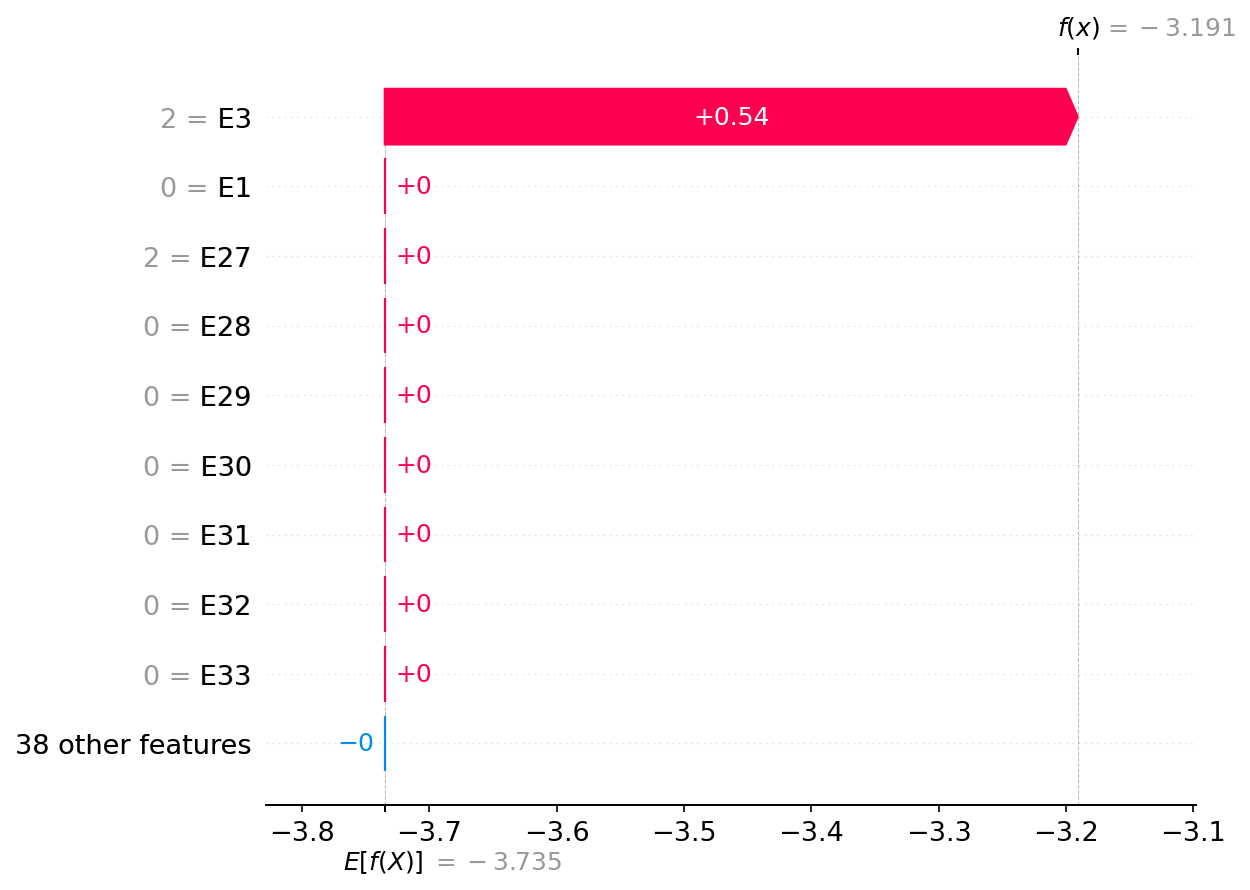
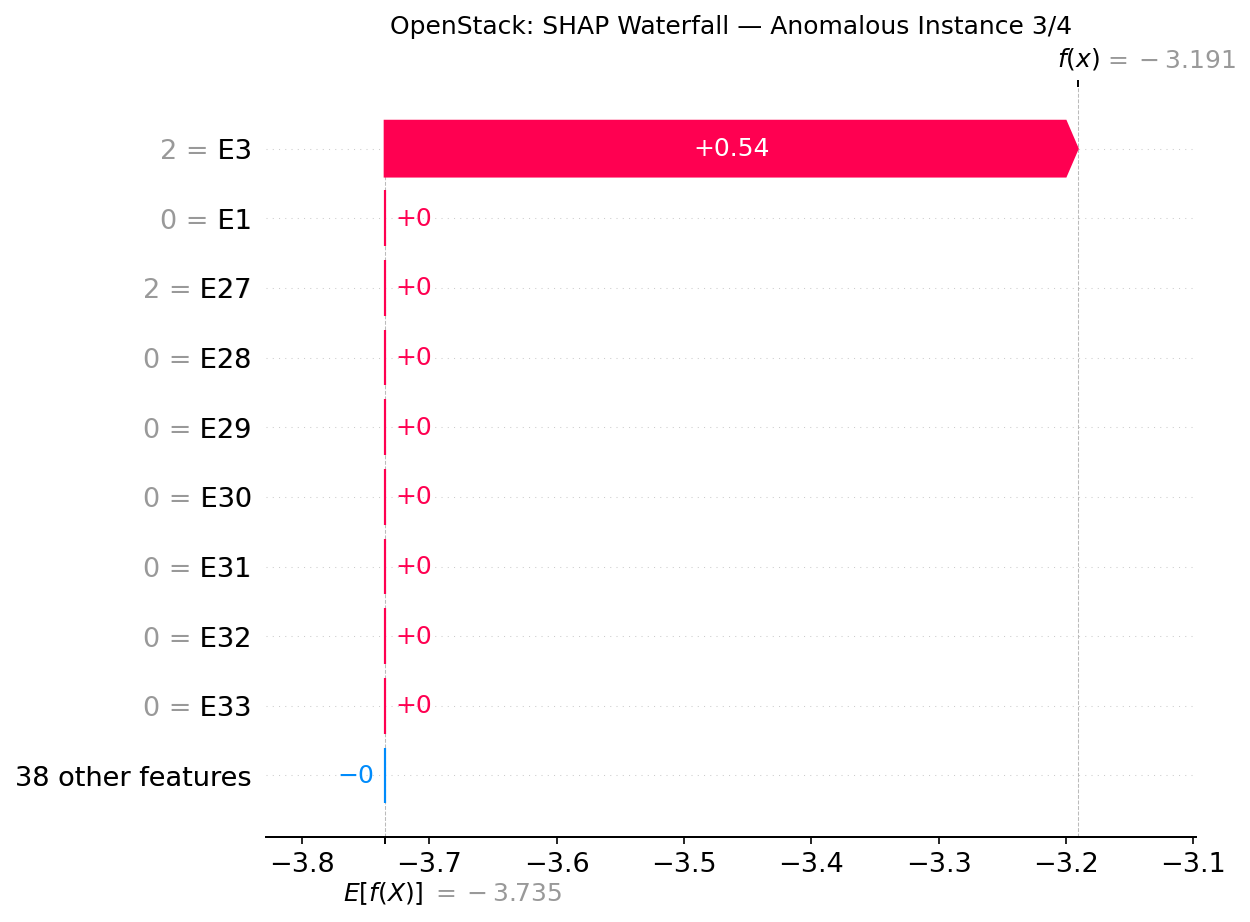
Final submission state — all results, figures, and cleaned code

diff --git a/src/05_explain_openstack_shap.py b/src/05_explain_openstack_shap.py
@@ -97,6 +97,7 @@ def main():
 
         plt.figure()
         shap.summary_plot(shap_values, X, feature_names=feature_cols, show=False)
+        plt.title("OpenStack: SHAP Summary Plot (Feature Impact on Anomaly Prediction, Qualitative Only)")
         summary_path = os.path.join(FIGURES_DIR, "OpenStack_shap_summary.png")
         plt.savefig(summary_path, dpi=150, bbox_inches="tight")
         plt.close()
@@ -108,6 +109,7 @@ def main():
         for i, pos in enumerate(anomaly_positions):
             plt.figure()
             shap.plots.waterfall(pos_explanation[int(pos)], show=False)
+            plt.title(f"OpenStack: SHAP Waterfall — Anomalous Instance {i + 1}/{len(anomaly_positions)}")
             waterfall_path = os.path.join(FIGURES_DIR, f"OpenStack_shap_waterfall_{i + 1}.png")
             plt.savefig(waterfall_path, dpi=150, bbox_inches="tight")
             plt.close()

diff --git a/README.md b/README.md
@@ -41,3 +41,64 @@ Source: https://github.com/logpai/loghub
 | Data processing | pandas / numpy | 2.2.3 / 1.26.4 |
 
 ## Project Structure
+
+```
+xai-cloud-incident-prediction/
+├── data/raw/          (datasets, not tracked in git)
+├── data/processed/    (feature matrices, splits — not tracked in git)
+├── src/               (all pipeline scripts, numbered in execution order)
+├── results/           (CSV outputs; figures/, models/, shap_values/ subfolders)
+├── logs/              (run logs, inventories, chapter outlines)
+├── notebooks/         (exploratory work)
+├── DISSERTATION_LOG.md
+└── RESEARCH_DIARY.md
+```
+
+## Hardware and Environment
+
+- **Hardware:** macOS Sequoia, Apple Silicon ARM64 (M-series chip)
+- **Python:** 3.12.7, Conda environment `msc_dissertation`
+- Run times below were measured on this hardware; a different machine
+  (especially x86 without native ARM wheels for lightgbm/shap) may vary
+  significantly.
+
+## Scripts — Execution Order
+
+Run in this numeric order; each script depends on outputs from earlier ones.
+
+| # | Script | What it does | Approx. run time |
+|---|--------|---------------|-------------------|
+| 00 | `00_inspect_data.py` | Prints size, sample lines, and row/line counts for every raw and pre-processed dataset file | 1-2 min |
+| 01 | `01_preprocess_bgl.py` | Runs Drain3 (with IP/hex/number masking) over BGL.log and builds the fixed-window (size=100) event-occurrence matrix | 5-8 min |
+| 01 | `01_preprocess_openstack.py` | Runs Drain3 over all three OpenStack log files and builds the per-instance event-occurrence matrix | <1 min |
+| 02 | `02_build_splits.py` | Builds chronological 70/15/15 train/val/test splits for HDFS and BGL; saves OpenStack's full matrix for k-fold instead | <1 min |
+| 03 | `03_train_baselines.py` | Trains Logistic Regression, Random Forest, LightGBM on all three datasets and saves RQ1 metrics | 2-5 min |
+| 04 | `04_explain_rq2.py` | Trains the best model per dataset (HDFS: LightGBM, BGL: Random Forest), runs SHAP + LIME, faithfulness tests, and SHAP-LIME Spearman agreement | 10-15 min |
+| 05 | `05_explain_openstack_shap.py` | Trains a regularised LightGBM on the full OpenStack matrix and runs SHAP for qualitative RQ3 analysis only | <1 min |
+| 06 | `06_rq3_actionability.py` | Maps HDFS/BGL top-15 SHAP features to operational categories via keyword rules; computes actionability coverage | <1 min |
+| 07 | `07_rq3_openstack_qualitative.py` | Derives and categorises the event templates triggered by OpenStack's 4 anomalous instances | <1 min |
+| 08 | `08_ablation_window_size.py` | Rebuilds BGL windows at sizes 10/20/40 (window_size=100 reuses the existing split) and evaluates RF/LightGBM at each | 5-10 min |
+| 09 | `09_shap_stability_window.py` | Retrains RF at each BGL window size, runs SHAP, and computes pairwise Jaccard similarity of top-10 features across window sizes | 10-15 min |
+| 10 | `10_temporal_drift_bgl.py` | Splits BGL's chronological test set into 3 sequential chunks and evaluates RF/LightGBM on each | 2-3 min |
+| 11 | `11_hyperparameter_sensitivity.py` | 27-combination LightGBM grid search (n_estimators x learning_rate x num_leaves) on BGL | 5-10 min |
+| 12 | `12_results_inventory.py` | Lists every file in results/ with size/schema/preview and checks 15 expected deliverables are present | <1 min |
+| 13 | `13_figure_inventory_check.py` | Verifies required dissertation figures exist at dpi>=150 with titles; regenerates any missing ones | 5-8 min |
+
+Shared helper modules (not run directly): `utils_data.py`, `utils_explain.py`, `utils_bgl_windows.py`, `utils_rq3.py`.
+
+## Results CSVs
+
+| File | Contents |
+|------|----------|
+| `results/model_results.csv` | RQ1: F1/Precision/Recall/AUC-ROC per dataset/model/eval-split (val, test, or cv_mean/cv_std for OpenStack) |
+| `results/feature_ranking_{HDFS,BGL,OpenStack}.csv` | Per-feature mean absolute SHAP (and LIME, where applicable) importance, sorted descending |
+| `results/lime_ranking_{HDFS,BGL}.csv` | Per-instance LIME feature weight matrix for the 200-sample test set |
+| `results/faithfulness_{HDFS,BGL}.csv` | Deletion-test mean/std probability drop at k=1,2,3,5,10 for SHAP, LIME, and a random-ranking control |
+| `results/shap_lime_spearman.csv` | RQ2: Spearman rank correlation between SHAP and LIME global feature importances, per dataset |
+| `results/rq3_actionability_{HDFS,BGL}.csv` | Top-15 SHAP features with template text and assigned operational category |
+| `results/rq3_coverage.csv` | RQ3 actionability_coverage summary (categorised / 15) per dataset |
+| `results/rq3_openstack_qualitative.txt` | Qualitative-only RQ3 writeup for OpenStack (no held-out metrics) |
+| `results/ablation_window_size.csv` | RQ1 follow-up: F1/Precision/Recall/AUC-ROC for RF/LightGBM at BGL window sizes 10/20/40/100 |
+| `results/temporal_drift_bgl.csv` | F1/Precision/Recall/AUC-ROC for RF/LightGBM on each of 3 sequential chunks of BGL's test set |
+| `results/hyperparameter_sensitivity.csv` | Test F1/AUC-ROC for all 27 LightGBM hyperparameter combinations on BGL |
+| `results/shap_stability_window.csv` | Pairwise Jaccard similarity of top-10 SHAP features across BGL window sizes |
